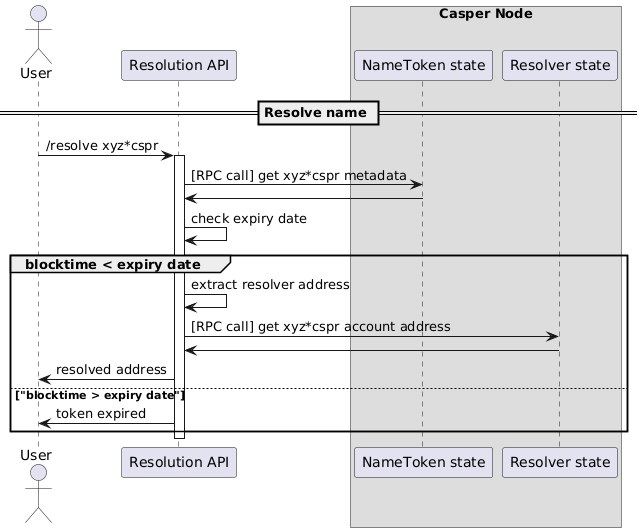
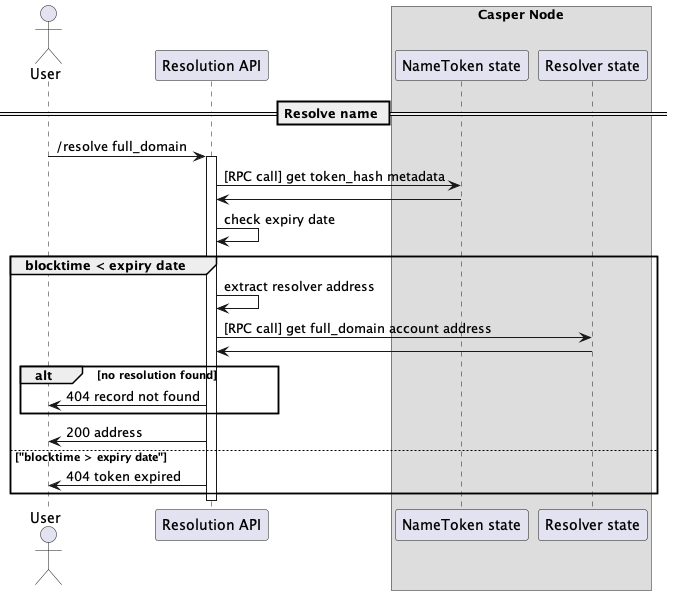
Changes to controller and resolution: - set resolver on registrar instead of controller. - updated resolution flows. - added cleanup() flow

diff --git a/docs/sequence-diagrams/Resolution.md b/docs/sequence-diagrams/Resolution.md
@@ -2,17 +2,25 @@
 
 ## Set a resolver
 
-> As a domain owner, I must be able to set a resolver contract address for my domain.
+> As a *cspr name token owner, I must be able to set a resolver contract address for my name token.
 
 ![](puml/set-resolver.png)
 [🔗](puml/set-resolver.puml)
 
 ## Set account address record
 
-> As a domain owner, I must be able to set a record that resolves my domain name to an account address.
+> As a *cspr name token owner, I must be able to set a record that resolves my domain or subdomain to an account address.
 
 ![](puml/set-account-address-record.png)
 [🔗](puml/set-account-address-record.puml)
+
+## Clean up name token
+
+> As an admin or a *cspr name token owner, I must be able to clean up all records resolving addresses for the name token.
+
+![](puml/clean-up-records.png)
+[🔗](puml/clean-up-records.puml)
+
 
 ## Resolve name
 
@@ -21,7 +29,7 @@
 ![](puml/onchain-name-resolution.png)
 [🔗](puml/onchain-name-resolution.puml) 
 
-The logic could be wrapped in a stored session call:
+This logic is offered by the registrar's `resolve()` entry point:
 
 ![](puml/onchain-name-resolution-wrapped.png)
 [🔗](puml/onchain-name-resolution-wrapped.puml)
@@ -32,17 +40,3 @@ The logic could be wrapped in a stored session call:
 
 ![](puml/resolve-name.png)
 [🔗](puml/resolve-name.puml)
-
-# Reverse resolution
-
-24-06-04: Decided to skip on-chain reverse resolution flows from first version of CSPR.name.
-
-## Set reverse resolution
-
-![](puml/set-reverse-resolution.png)
-[🔗](puml/set-reverse-resolution.puml)
-
-## Look up account name
-
-![](puml/lookup-account-name.png)
-[🔗](puml/lookup-account-name.puml)
